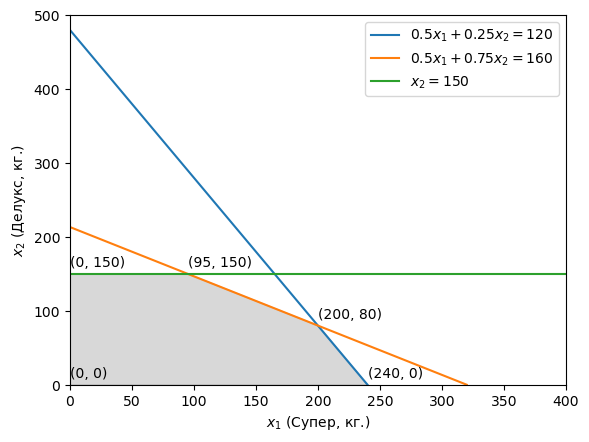
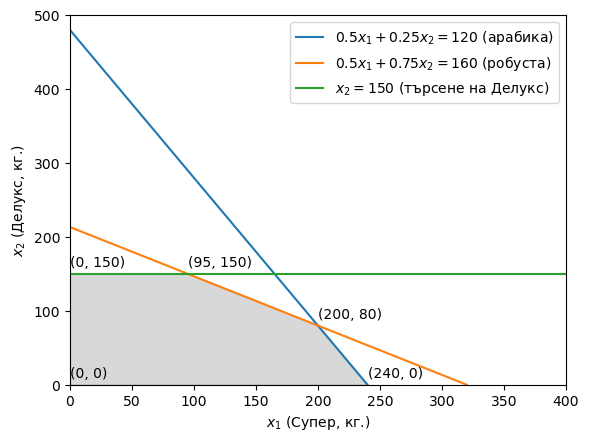
Built site for gh-pages

diff --git a/03-Graphical-Method/01-Blending.html b/03-Graphical-Method/01-Blending.html
@@ -306,7 +306,7 @@ x_2 &amp; \geq 0
 <li>Права робуста: (0, 160 / 0.75), (160 / 0.5, 0)</li>
 <li>Права търсене на Делукс: (0, 150), (100, 150) Тази права е успоредна на оста <span class="math inline">x_1</span>.</li>
 </ul>
-<div id="cell-fig-coffее-restr" class="cell" data-execution_count="6">
+<div id="cell-fig-coffее-restr" class="cell" data-execution_count="8">
 <details class="code-fold">
 <summary>Покажи кода</summary>
 <div class="sourceCode cell-code" id="cb1"><pre class="sourceCode python code-with-copy"><code class="sourceCode python"><span id="cb1-1"><a href="#cb1-1" aria-hidden="true" tabindex="-1"></a><span class="im">import</span> matplotlib.pyplot <span class="im">as</span> plt</span>
@@ -315,14 +315,14 @@ x_2 &amp; \geq 0
 <span id="cb1-4"><a href="#cb1-4" aria-hidden="true" tabindex="-1"></a></span>
 <span id="cb1-5"><a href="#cb1-5" aria-hidden="true" tabindex="-1"></a>fig, ax <span class="op">=</span> plt.subplots()</span>
 <span id="cb1-6"><a href="#cb1-6" aria-hidden="true" tabindex="-1"></a></span>
-<span id="cb1-7"><a href="#cb1-7" aria-hidden="true" tabindex="-1"></a>ax.plot([<span class="dv">0</span>, <span class="dv">240</span>], [<span class="dv">480</span>, <span class="dv">0</span>], label<span class="op">=</span><span class="vs">r'$0.5 x_1 + 0.25 x_2 = 120$'</span>)</span>
-<span id="cb1-8"><a href="#cb1-8" aria-hidden="true" tabindex="-1"></a>ax.plot([<span class="dv">0</span>, <span class="dv">320</span>], [<span class="fl">213.33</span>, <span class="dv">0</span>], label<span class="op">=</span><span class="vs">r'$0.5 x_1 + 0.75 x_2 = 160$'</span>)</span>
-<span id="cb1-9"><a href="#cb1-9" aria-hidden="true" tabindex="-1"></a>ax.plot([<span class="dv">0</span>, <span class="dv">400</span>], [<span class="dv">150</span>, <span class="dv">150</span>], label<span class="op">=</span><span class="vs">r'$x_2 = 150$'</span>)</span>
+<span id="cb1-7"><a href="#cb1-7" aria-hidden="true" tabindex="-1"></a>ax.plot([<span class="dv">0</span>, <span class="dv">240</span>], [<span class="dv">480</span>, <span class="dv">0</span>], label<span class="op">=</span><span class="vs">r"$0.5 x_1 + 0.25 x_2 = 120$ (арабика)"</span>)</span>
+<span id="cb1-8"><a href="#cb1-8" aria-hidden="true" tabindex="-1"></a>ax.plot([<span class="dv">0</span>, <span class="dv">320</span>], [<span class="fl">213.33</span>, <span class="dv">0</span>], label<span class="op">=</span><span class="vs">r"$0.5 x_1 + 0.75 x_2 = 160$ (робуста)"</span>)</span>
+<span id="cb1-9"><a href="#cb1-9" aria-hidden="true" tabindex="-1"></a>ax.plot([<span class="dv">0</span>, <span class="dv">400</span>], [<span class="dv">150</span>, <span class="dv">150</span>], label<span class="op">=</span><span class="vs">r"$x_2 = 150$ (търсене на Делукс)"</span>)</span>
 <span id="cb1-10"><a href="#cb1-10" aria-hidden="true" tabindex="-1"></a></span>
 <span id="cb1-11"><a href="#cb1-11" aria-hidden="true" tabindex="-1"></a>ax.set_xlim((<span class="dv">0</span>, <span class="dv">400</span>))</span>
 <span id="cb1-12"><a href="#cb1-12" aria-hidden="true" tabindex="-1"></a>ax.set_ylim((<span class="dv">0</span>, <span class="dv">500</span>))</span>
-<span id="cb1-13"><a href="#cb1-13" aria-hidden="true" tabindex="-1"></a>ax.set_xlabel(<span class="vs">r'$x_1 \text{ (Супер, кг.)} $'</span>)</span>
-<span id="cb1-14"><a href="#cb1-14" aria-hidden="true" tabindex="-1"></a>ax.set_ylabel(<span class="vs">r'$x_2 \text{ (Делукс, кг.)}$'</span>)</span>
+<span id="cb1-13"><a href="#cb1-13" aria-hidden="true" tabindex="-1"></a>ax.set_xlabel(<span class="vs">r'$x_1$ (Супер, кг.)'</span>)</span>
+<span id="cb1-14"><a href="#cb1-14" aria-hidden="true" tabindex="-1"></a>ax.set_ylabel(<span class="vs">r'$x_2$ (Делукс, кг.)'</span>)</span>
 <span id="cb1-15"><a href="#cb1-15" aria-hidden="true" tabindex="-1"></a>ax.legend(loc<span class="op">=</span><span class="dv">0</span>)</span></code><button title="Copy to Clipboard" class="code-copy-button"><i class="bi"></i></button></pre></div>
 </details>
 <div class="cell-output cell-output-display">
@@ -379,7 +379,7 @@ x_1 &amp; = 200.
 <p>Решението на системата можем да получим, като заместим в първото уравнение с <span class="math inline">x_2 = 150</span>, за да получим</p>
 <p>С това намерихме координатите на пресечната точка между правите на “робуста” и “търсене на Делукс”: (95, 150).</p>
 <p>Така получаваме върховете на допустимото множество: (0, 0), (240, 0), (200, 80), (95, 150), (0, 150) (<a href="#fig-coffee-feasible-set" class="quarto-xref">Figure&nbsp;<span>2.2</span></a>).</p>
-<div id="cell-fig-coffee-feasible-set" class="cell" data-execution_count="7">
+<div id="cell-fig-coffee-feasible-set" class="cell" data-execution_count="9">
 <details class="code-fold">
 <summary>Покажи кода</summary>
 <div class="sourceCode cell-code" id="cb2"><pre class="sourceCode python code-with-copy"><code class="sourceCode python"><span id="cb2-1"><a href="#cb2-1" aria-hidden="true" tabindex="-1"></a>vertices <span class="op">=</span> [</span>
@@ -423,7 +423,7 @@ Figure&nbsp;2.2: Допустимо множество
 <h2 data-number="2.3" class="anchored" data-anchor-id="целева-функция-и-оптимален-план"><span class="header-section-number">2.3</span> Целева функция и оптимален план</h2>
 <p>За да определим оптималния план графично ще начертаем прави, съответстващи на различни нива на печалба.</p>
 <p>Целевата функция зависи от две променливи, което означава, че за да я изобразим графично ще трябва да използваме трето измерение. <a href="#fig-coffee-objective" class="quarto-xref">Figure&nbsp;<span>2.3</span></a> показва графиката на целевата функция в тримерно пространство, както и нейната проекция в двумерно пространство.</p>
-<div class="cell" data-execution_count="8">
+<div id="cell-fig-coffee-objective" class="cell" data-execution_count="6">
 <details class="code-fold">
 <summary>Покажи кода</summary>
 <div class="sourceCode cell-code" id="cb3"><pre class="sourceCode python code-with-copy"><code class="sourceCode python"><span id="cb3-1"><a href="#cb3-1" aria-hidden="true" tabindex="-1"></a><span class="im">import</span> numpy <span class="im">as</span> np</span>
@@ -443,9 +443,9 @@ Figure&nbsp;2.2: Допустимо множество
 <span id="cb3-15"><a href="#cb3-15" aria-hidden="true" tabindex="-1"></a><span class="co"># Add a 3D subplot</span></span>
 <span id="cb3-16"><a href="#cb3-16" aria-hidden="true" tabindex="-1"></a>ax.plot_surface(x, y, z, rstride<span class="op">=</span><span class="dv">5</span>, cstride<span class="op">=</span><span class="dv">5</span>, edgecolor<span class="op">=</span><span class="st">'k'</span>, alpha<span class="op">=</span><span class="fl">0.5</span>)</span>
 <span id="cb3-17"><a href="#cb3-17" aria-hidden="true" tabindex="-1"></a>ax.view_init(elev<span class="op">=</span><span class="dv">25</span>, azim<span class="op">=-</span><span class="dv">120</span>)</span>
-<span id="cb3-18"><a href="#cb3-18" aria-hidden="true" tabindex="-1"></a>ax.set_xlabel(<span class="st">"Супер"</span>)</span>
-<span id="cb3-19"><a href="#cb3-19" aria-hidden="true" tabindex="-1"></a>ax.set_ylabel(<span class="st">"Делукс"</span>)</span>
-<span id="cb3-20"><a href="#cb3-20" aria-hidden="true" tabindex="-1"></a>ax.set_zlabel(<span class="st">"Печалба"</span>)</span>
+<span id="cb3-18"><a href="#cb3-18" aria-hidden="true" tabindex="-1"></a>ax.set_xlabel(<span class="vs">r"$x_1$ (Супер, кг.)"</span>)</span>
+<span id="cb3-19"><a href="#cb3-19" aria-hidden="true" tabindex="-1"></a>ax.set_ylabel(<span class="vs">r"$x_2$ (Делукс, кг.)"</span>)</span>
+<span id="cb3-20"><a href="#cb3-20" aria-hidden="true" tabindex="-1"></a>ax.set_zlabel(<span class="vs">r"$z$ (Печалба, лв.)"</span>)</span>
 <span id="cb3-21"><a href="#cb3-21" aria-hidden="true" tabindex="-1"></a></span>
 <span id="cb3-22"><a href="#cb3-22" aria-hidden="true" tabindex="-1"></a>vertices_3d <span class="op">=</span> [v <span class="op">+</span> [<span class="dv">0</span>] <span class="cf">for</span> v <span class="kw">in</span> vertices]</span>
 <span id="cb3-23"><a href="#cb3-23" aria-hidden="true" tabindex="-1"></a></span>
@@ -453,44 +453,19 @@ Figure&nbsp;2.2: Допустимо множество
 <span id="cb3-25"><a href="#cb3-25" aria-hidden="true" tabindex="-1"></a>poly <span class="op">=</span> Poly3DCollection([vertices_3d], alpha<span class="op">=</span><span class="fl">.25</span>, linewidths<span class="op">=</span><span class="dv">1</span>, edgecolors<span class="op">=</span><span class="st">'r'</span>, facecolors<span class="op">=</span><span class="st">'c'</span>)</span>
 <span id="cb3-26"><a href="#cb3-26" aria-hidden="true" tabindex="-1"></a></span>
 <span id="cb3-27"><a href="#cb3-27" aria-hidden="true" tabindex="-1"></a><span class="co"># Add the Poly3DCollection to the axes</span></span>
-<span id="cb3-28"><a href="#cb3-28" aria-hidden="true" tabindex="-1"></a>ax.add_collection3d(poly)</span>
-<span id="cb3-29"><a href="#cb3-29" aria-hidden="true" tabindex="-1"></a></span>
-<span id="cb3-30"><a href="#cb3-30" aria-hidden="true" tabindex="-1"></a><span class="co"># Show the plot</span></span>
-<span id="cb3-31"><a href="#cb3-31" aria-hidden="true" tabindex="-1"></a></span>
-<span id="cb3-32"><a href="#cb3-32" aria-hidden="true" tabindex="-1"></a>display(fig)</span></code><button title="Copy to Clipboard" class="code-copy-button"><i class="bi"></i></button></pre></div>
+<span id="cb3-28"><a href="#cb3-28" aria-hidden="true" tabindex="-1"></a>ax.add_collection3d(poly)</span></code><button title="Copy to Clipboard" class="code-copy-button"><i class="bi"></i></button></pre></div>
 </details>
-<div id="fig-coffee-objective" class="cell quarto-figure quarto-figure-center quarto-float anchored" data-execution_count="8">
+<div class="cell-output cell-output-display">
+<div id="fig-coffee-objective" class="quarto-figure quarto-figure-center quarto-float anchored">
 <figure class="quarto-float quarto-float-fig figure">
 <div aria-describedby="fig-coffee-objective-caption-0ceaefa1-69ba-4598-a22c-09a6ac19f8ca">
-<div class="cell-output cell-output-display">
-<div id="fig-coffee-objective-1" class="quarto-figure quarto-figure-center quarto-float anchored">
-<figure class="quarto-float quarto-subfloat-fig figure">
-<div aria-describedby="fig-coffee-objective-1-caption-0ceaefa1-69ba-4598-a22c-09a6ac19f8ca">
-<img src="01-Blending_files/figure-html/fig-coffee-objective-output-1.png" class="img-fluid figure-img" data-ref-parent="fig-coffee-objective">
+<img src="01-Blending_files/figure-html/fig-coffee-objective-output-1.png" class="img-fluid figure-img">
 </div>
-<figcaption class="quarto-float-caption-bottom quarto-subfloat-caption quarto-subfloat-fig" id="fig-coffee-objective-1-caption-0ceaefa1-69ba-4598-a22c-09a6ac19f8ca">
-(a) Целева функция
+<figcaption class="quarto-float-caption-bottom quarto-float-caption quarto-float-fig" id="fig-coffee-objective-caption-0ceaefa1-69ba-4598-a22c-09a6ac19f8ca">
+Figure&nbsp;2.3: Целева функция
 </figcaption>
 </figure>
 </div>
-</div>
-<div class="cell-output cell-output-display">
-<div id="fig-coffee-objective-2" class="quarto-figure quarto-figure-center quarto-float anchored">
-<figure class="quarto-float quarto-subfloat-fig figure">
-<div aria-describedby="fig-coffee-objective-2-caption-0ceaefa1-69ba-4598-a22c-09a6ac19f8ca">
-<img src="01-Blending_files/figure-html/fig-coffee-objective-output-2.png" id="fig-coffee-objective-2" class="img-fluid figure-img" data-ref-parent="fig-coffee-objective">
-</div>
-<figcaption class="quarto-float-caption-bottom quarto-subfloat-caption quarto-subfloat-fig" id="fig-coffee-objective-2-caption-0ceaefa1-69ba-4598-a22c-09a6ac19f8ca">
-(b)
-</figcaption>
-</figure>
-</div>
-</div>
-</div>
-<figcaption class="quarto-float-caption-bottom quarto-float-caption quarto-float-fig quarto-uncaptioned" id="fig-coffee-objective-caption-0ceaefa1-69ba-4598-a22c-09a6ac19f8ca">
-Figure&nbsp;2.3
-</figcaption>
-</figure>
 </div>
 </div>
 <p>Горното изображение е удобно, за да разберем как изглежда целевата функция, но не ни помага да намерим максимума й в рамките на допустимото множество. Затова ще използваме проекцията на целевата функция върху равнината на допустимото множество.</p>
@@ -637,7 +612,7 @@ x_2
 <img src="01-Blending_files/figure-html/fig-coffee-solution-output-1.png" class="img-fluid figure-img">
 </div>
 <figcaption class="quarto-float-caption-bottom quarto-float-caption quarto-float-fig" id="fig-coffee-solution-caption-0ceaefa1-69ba-4598-a22c-09a6ac19f8ca">
-Figure&nbsp;2.4: Оптимално решение
+Figure&nbsp;2.4: Оптимален план
 </figcaption>
 </figure>
 </div>
@@ -711,6 +686,40 @@ Table&nbsp;2.1: Консумация на материали за произво
 </figure>
 </div>
 <p>Съставете математически модел, който да намери оптималния план за производство на боите.</p>
+<div class="callout callout-style-default callout-note callout-titled">
+<div class="callout-header d-flex align-content-center" data-bs-toggle="collapse" data-bs-target=".callout-2-contents" aria-controls="callout-2" aria-expanded="false" aria-label="Toggle callout">
+<div class="callout-icon-container">
+<i class="callout-icon"></i>
+</div>
+<div class="callout-title-container flex-fill">
+Математически модел
+</div>
+<div class="callout-btn-toggle d-inline-block border-0 py-1 ps-1 pe-0 float-end"><i class="callout-toggle"></i></div>
+</div>
+<div id="callout-2" class="callout-2-contents callout-collapse collapse">
+<div class="callout-body-container callout-body">
+<p>Целеви променливи: <span class="math display">
+\begin{align*}
+&amp; x_1: \text{ Екстериорна боя (тонове)}\\
+&amp; x_2: \text{ Интериорна боя (тонове)}
+\end{align*}
+</span></p>
+<p><span class="math display">
+\max z = 5000 x_1 + 4000 x_2 \text{ (целева функция)}
+</span></p>
+<p>Ограничения:</p>
+<p><span class="math display">
+\begin{align*}
+6x_1 + 4x_2 &amp; \leq 24 \text{ (разтворител)}\\
+x_1 + 2x_2 &amp; \leq 6 \text{ (багрило)}\\
+2x_1 + 7x_2 &amp; \leq 4 \text{ (смола)}\\
+x_1 &amp; \geq 0 \\
+x_2 &amp; \geq 0
+\end{align*}
+</span></p>
+</div>
+</div>
+</div>
 </section>
 <section id="задача-2" class="level2" data-number="2.6">
 <h2 data-number="2.6" class="anchored" data-anchor-id="задача-2"><span class="header-section-number">2.6</span> Задача 2</h2>
@@ -725,6 +734,73 @@ Table&nbsp;2.1: Консумация на материали за произво
 <li>Доставките са ограничени до 5 тона на ден (овесени ядки), 2 тона (стафиди) и по един тон на ден за останалите две съставки (кокосови орехи, бадеми).</li>
 </ul>
 <p>Съставете математически модел с който да препоръчате оптимален производствен план за тази компания. Целта на модела е да намери производствен план с най-висока стойност на печалбата на компанията.</p>
+<div class="callout callout-style-default callout-note callout-titled">
+<div class="callout-header d-flex align-content-center" data-bs-toggle="collapse" data-bs-target=".callout-3-contents" aria-controls="callout-3" aria-expanded="false" aria-label="Toggle callout">
+<div class="callout-icon-container">
+<i class="callout-icon"></i>
+</div>
+<div class="callout-title-container flex-fill">
+Математически модел
+</div>
+<div class="callout-btn-toggle d-inline-block border-0 py-1 ps-1 pe-0 float-end"><i class="callout-toggle"></i></div>
+</div>
+<div id="callout-3" class="callout-3-contents callout-collapse collapse">
+<div class="callout-body-container callout-body">
+<p>Целеви променливи:</p>
+<p><span class="math display">
+\begin{align*}
+&amp; x_{Aя}: \text{овесени ядки в продукт A} \\
+&amp; x_{Aс}: \text{стафиди в продукт A} \\
+&amp; x_{Aк}: \text{кокосови орехи в продукт A} \\
+&amp; x_{Aб}: \text{бадеми в продукт A} \\
+&amp; x_{Bя}: \text{овесени ядки в продукт B} \\
+&amp; x_{Bк}: \text{кокосови орехи в продукт B} \\
+&amp; x_{Bб}: \text{бадеми в продукт B} \\
+&amp; x_{Cя}: \text{овесени ядки в продукт C} \\
+&amp; x_{Cс}: \text{стафиди в продукт C} \\
+&amp; x_{Cк}: \text{кокосови орехи в продукт C} \\
+&amp; x_{Cб}: \text{бадеми в продукт C} \\
+\end{align*}
+</span></p>
+<p><span class="math display">
+\begin{align*}
+X_A &amp; = \frac{50}{57} x_{Aя} + \frac{5}{57} x_{Aс} + 0\cdot x_{Ak}  + \frac{2}{57} x_{Aб} \\
+X_B &amp; = \frac{60}{65} x_{Bя} + 0 \cdot x_{Bс} + \frac{2}{65} x_{Bк} + \frac{3}{65} x_{Bб} \\
+X_C &amp; = \frac{60}{69} x_{Cя} + \frac{3}{69} x_{Cс} + \frac{4}{69} x_{Cк} + \frac{2}{69} x_{Cб} \\
+\end{align*}
+</span></p>
+<p>Приходи</p>
+<p><span class="math display">
+\text{Приходи} = 2.0 \cdot 500 x_{A} + 2.5 \cdot 500 x_{B} + 3.0 \cdot 500 x_{C}
+</span></p>
+<p>Разходи:</p>
+<p><span class="math display">
+\text{Разходи} = 100(\underbrace{x_{Aя} + x_{Bя} + x_{Cя}_{\text{използвани ядки}}}) + 120(\underbrace{x_{Aс} + x_{Cс}}_{\text{използвани стафиди}}) + 110(\underbrace{x_{Bк} + x_{Cк}}_{\text{използван кокос}}) + 200(\undebrace{x_{Aб} + x_{Bб} + x_{Cб}}_{използвани бадеми})
+</span></p>
+<p>Целева функция:</p>
+<p><span class="math display">
+\text{Печалба} = \text{Приходи} - \text{Разходи}
+</span></p>
+<p>Ограничения за минимални доставки</p>
+<p><span class="math display">
+\begin{align*}
+X_{A} &amp; \geq 500 / (1000 / 2) \text{ (минимално производство на A в тонове)}\\
+X_{B} &amp; \geq 600 / (1000 / 2) /  \text{ (минимално производство на B в тонове)}\\
+X_{C} &amp; \geq 400 / (100 / 2) \text{ (минимално производство на C в тонове)}
+\end{align*}
+</span></p>
+<p>Ограничения за наличност на суровини</p>
+<p><span class="math display">
+\begin{align*}
+x_{Aя} + x_{Bя} + x_{Cя} &amp; \leq 5 \text{ (овесени ядки в тонове)}\\
+x_{Aс} + x_{Cс} &amp; \leq 2 \text{ (стафиди в тонове)}\\
+x_{Bк} + x_{Cк} &amp; \leq 1 \text{ (кокосови орехи в тонове)}\\
+x_{Aб} + x_{Bб} + x_{Cб} &amp; \leq 1 \text{ (бадеми в тонове)}
+\end{align*}
+</span></p>
+</div>
+</div>
+</div>
 
 
 </section>
